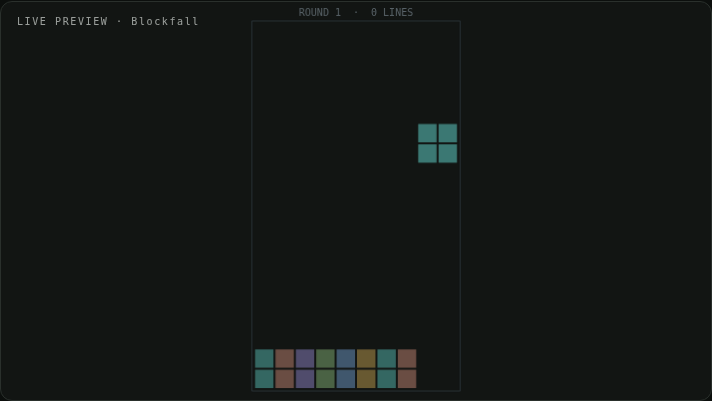
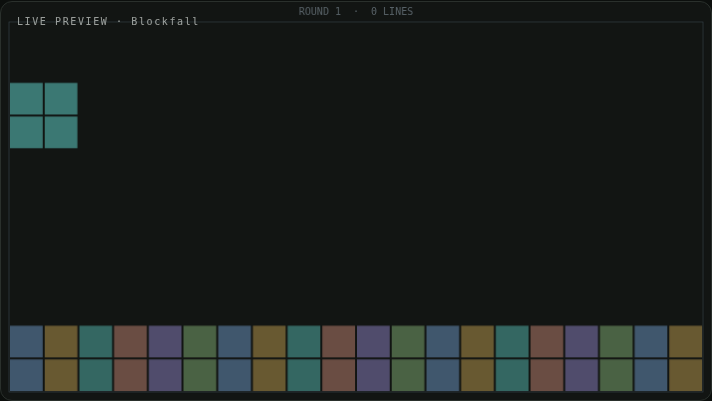
Make game wallpapers fill available space with responsive playfields

diff --git a/src/scenes-games.ts b/src/scenes-games.ts
@@ -1,6 +1,7 @@
 import { AmbientScene } from "./scene"
 import { BlockfallGame } from "./blockfall"
 import { MazeGame } from "./maze"
+import { adaptiveGrid, playfield } from "./game-layout"
 
 const palette = {
   dark: ["#65d8d0", "#e69b86", "#a699e7", "#9acc87", "#82b2e9", "#dfb65b", "#d483ad"],
@@ -8,19 +9,26 @@ const palette = {
 }
 
 export class BlockfallScene extends AmbientScene {
-  private game = new BlockfallGame()
+  private game: BlockfallGame | undefined
+  protected layout() {
+    if (!this.width || !this.height) return
+    const { columns, rows } = adaptiveGrid(this.width, this.height, 220)
+    if (!this.game) this.game = new BlockfallGame(columns, rows)
+    else this.game.resize(columns, rows)
+  }
   protected paint(ctx: CanvasRenderingContext2D, delta: number) {
-    const game = this.game; game.advance(delta)
-    const cell = Math.max(0.5, Math.min(this.width * 0.6 / game.columns, (this.height - 32) / game.rows, 28))
-    const x = (this.width - cell * game.columns) / 2, y = (this.height - cell * game.rows) / 2 + 5
+    const game = this.game!; game.advance(delta)
+    const field = playfield(this.width, this.height), { x, y } = field
+    const cellX = field.width / game.columns, cellY = field.height / game.rows
+    const gap = Math.min(2, cellX * 0.12, cellY * 0.12)
     const light = this.appearance === "light", colors = palette[this.appearance]
     ctx.globalAlpha = game.stage === "reset" ? Math.max(0, 1 - game.age / 2) : 0.8
     ctx.strokeStyle = light ? "#7892a7" : "#647c91"; ctx.lineWidth = 0.6
-    ctx.strokeRect(x - 2, y - 2, cell * game.columns + 4, cell * game.rows + 4)
+    ctx.strokeRect(x, y, field.width, field.height)
     const block = (column: number, row: number, color: number) => {
       if (row < 0) return
       ctx.fillStyle = colors[(color - 1) % colors.length]
-      ctx.fillRect(x + column * cell + 1, y + row * cell + 1, Math.max(1, cell - 2), Math.max(1, cell - 2))
+      ctx.fillRect(x + column * cellX + gap / 2, y + row * cellY + gap / 2, cellX - gap, cellY - gap)
     }
     for (let row = 0; row < game.rows; row++) for (let column = 0; column < game.columns; column++) {
       if (!game.board[row][column]) continue
@@ -38,27 +46,36 @@ export class BlockfallScene extends AmbientScene {
 }
 
 export class MazeChaseScene extends AmbientScene {
-  private game = new MazeGame()
+  private game: MazeGame | undefined
+  protected layout() {
+    if (!this.width || !this.height) return
+    const { columns, rows } = adaptiveGrid(this.width, this.height, 420, true)
+    if (!this.game) this.game = new MazeGame(columns, rows)
+    else this.game.setNextLayout(columns, rows)
+  }
   protected paint(ctx: CanvasRenderingContext2D, delta: number) {
-    const game = this.game; game.advance(delta)
-    const cell = Math.max(0.5, Math.min((this.width - 30) / game.columns, (this.height - 32) / game.rows, 30))
-    const x = (this.width - cell * game.columns) / 2, y = (this.height - cell * game.rows) / 2 + 5
+    const game = this.game!; game.advance(delta)
+    const field = playfield(this.width, this.height), { x, y } = field
+    const cellX = field.width / game.columns, cellY = field.height / game.rows, cell = Math.min(cellX, cellY)
+    const gap = Math.min(1.6, cell * 0.12)
     const light = this.appearance === "light"
     const fade = game.stage === "playing" ? Math.min(1, 0.65 + game.age) : Math.max(0, 1 - game.age / 2.5)
     ctx.globalAlpha = 0.65 * fade
     ctx.fillStyle = light ? "#789ca6" : "#42677a"
+    ctx.strokeStyle = ctx.fillStyle; ctx.lineWidth = 0.6
+    ctx.strokeRect(x, y, field.width, field.height)
     for (let id = 0; id < game.walls.length; id++) if (game.walls[id]) {
-      ctx.fillRect(x + id % game.columns * cell + 0.8, y + Math.floor(id / game.columns) * cell + 0.8, cell - 1.6, cell - 1.6)
+      ctx.fillRect(x + id % game.columns * cellX + gap / 2, y + Math.floor(id / game.columns) * cellY + gap / 2, cellX - gap, cellY - gap)
     }
     ctx.fillStyle = light ? "#826426" : "#d3bf7c"
     for (const id of game.pellets) {
-      ctx.beginPath(); ctx.arc(x + (id % game.columns + 0.5) * cell, y + (Math.floor(id / game.columns) + 0.5) * cell,
+      ctx.beginPath(); ctx.arc(x + (id % game.columns + 0.5) * cellX, y + (Math.floor(id / game.columns) + 0.5) * cellY,
         cell * (game.powers.has(id) ? 0.18 : 0.07), 0, Math.PI * 2); ctx.fill()
     }
     const position = (from: number, to: number) => {
       const t = game.interpolation
-      return [x + (from % game.columns + (to % game.columns - from % game.columns) * t + 0.5) * cell,
-        y + (Math.floor(from / game.columns) + (Math.floor(to / game.columns) - Math.floor(from / game.columns)) * t + 0.5) * cell]
+      return [x + (from % game.columns + (to % game.columns - from % game.columns) * t + 0.5) * cellX,
+        y + (Math.floor(from / game.columns) + (Math.floor(to / game.columns) - Math.floor(from / game.columns)) * t + 0.5) * cellY]
     }
     const [px, py] = position(game.previousPlayer, game.player)
     ctx.globalAlpha = 0.95 * fade; ctx.fillStyle = light ? "#087b86" : "#6ce0d4"

diff --git a/tests/game-layout.test.ts b/tests/game-layout.test.ts
@@ -1,0 +1,61 @@
+import { expect, it } from "vitest"
+import { adaptiveGrid, playfield } from "../src/game-layout"
+import { createScene } from "../src/scenes"
+import { BlockfallGame } from "../src/blockfall"
+import { MazeGame } from "../src/maze"
+import { drawing } from "./environment"
+
+for (const mode of ["blockfall", "maze-chase"] as const) {
+  it(`${mode} fills wide, tall, compact, and large playfields while preserving round progress`, () => {
+    const scene = createScene(mode)
+    scene.resize(800, 600)
+    for (let i = 0; i < 30; i++) scene.draw(drawing as unknown as CanvasRenderingContext2D, 0.1, 1)
+    const hud = drawing.fillText.mock.lastCall![0]
+    for (const [width, height] of [[1440, 900], [712, 240], [360, 800], [1600, 300], [800, 600]]) {
+      drawing.strokeRect.mockClear()
+      scene.resize(width, height)
+      scene.draw(drawing as unknown as CanvasRenderingContext2D, 0, 1)
+      const [x, y, w, h] = drawing.strokeRect.mock.calls[0]
+      expect(w / width).toBeGreaterThan(0.94)
+      expect(h / height).toBeGreaterThan(0.88)
+      expect(x + w).toBeLessThanOrEqual(width)
+      expect(y + h).toBeLessThanOrEqual(height)
+      expect(drawing.fillText.mock.lastCall![0]).toBe(hud)
+    }
+  })
+}
+
+it("layout work stays bounded and remains valid at tiny positive sizes", () => {
+  for (const [width, height] of [[1, 1], [800, 600], [4000, 400], [400, 4000]]) {
+    const field = playfield(width, height)
+    expect(field.width).toBeGreaterThan(0); expect(field.height).toBeGreaterThan(0)
+    const blocks = adaptiveGrid(width, height, 220)
+    expect(blocks.columns).toBeLessThanOrEqual(36); expect(blocks.rows).toBeLessThanOrEqual(36)
+    const maze = adaptiveGrid(width, height, 420, true)
+    expect(maze.columns % 2).toBe(1); expect(maze.rows % 2).toBe(1)
+    expect(maze.columns * maze.rows).toBeLessThanOrEqual(61 * 41)
+  }
+})
+
+it("Blockfall retains the stack, round counters, and piece age when the board grows", () => {
+  const game = new BlockfallGame()
+  game.advance(0.35)
+  const count = game.board.flat().filter(Boolean).length, age = game.age
+  game.resize(14, 22)
+  expect(game.board.flat().filter(Boolean).length).toBe(count)
+  expect(game.round).toBe(1); expect(game.pieces).toBe(0); expect(game.totalLines).toBe(0)
+  expect(game.age).toBe(age)
+  expect(game.board[21].filter(Boolean).length).toBe(8)
+})
+
+it("Maze Chase keeps its active match intact and adopts the new grid only at the next round", () => {
+  const game = new MazeGame()
+  expect([game.columns, game.rows]).toEqual([23, 15])
+  for (let i = 0; i < 30; i++) game.advance(0.1)
+  const state = { walls: [...game.walls], pellets: [...game.pellets], player: game.player, lives: game.lives }
+  game.setNextLayout(41, 9); game.advance(0)
+  expect({ walls: game.walls, pellets: [...game.pellets], player: game.player, lives: game.lives }).toEqual(state)
+  for (let i = 0; i < 1000 && game.round === 1; i++) game.advance(0.1)
+  expect(game.round).toBeGreaterThan(1)
+  expect([game.columns, game.rows]).toEqual([41, 9])
+})

diff --git a/src/blockfall.ts b/src/blockfall.ts
@@ -19,8 +19,8 @@ function rotations(shape: readonly Cell[]): Cell[][] {
 
 /** Small bounded falling-block simulation. Planning runs once per piece, never per frame. */
 export class BlockfallGame {
-  readonly columns = 10
-  readonly rows = 18
+  columns: number
+  rows: number
   board: number[][] = []
   round = 1
   pieces = 0
@@ -30,7 +30,27 @@ export class BlockfallGame {
   clearing: number[] = []
   piece: { cells: Cell[]; x: number; landing: number; color: number } | undefined
   private seed = 193
-  constructor() { this.reset() }
+  constructor(columns = 10, rows = 18) {
+    this.columns = Math.max(8, Math.min(36, Math.round(columns)))
+    this.rows = Math.max(8, Math.min(36, Math.round(rows)))
+    this.reset()
+  }
+  /** Reflow the existing stack, anchored at the floor; keep round, counters, and piece age. */
+  resize(columns: number, rows: number) {
+    columns = Math.max(8, Math.min(36, Math.round(columns)))
+    rows = Math.max(8, Math.min(36, Math.round(rows)))
+    if (columns === this.columns && rows === this.rows) return
+    const board = Array.from({ length: rows }, () => Array(columns).fill(0))
+    const dx = Math.floor((columns - this.columns) / 2), dy = rows - this.rows
+    for (let y = 0; y < this.rows; y++) for (let x = 0; x < this.columns; x++) {
+      if (y + dy >= 0 && y + dy < rows && x + dx >= 0 && x + dx < columns) board[y + dy][x + dx] = this.board[y][x]
+    }
+    const age = this.age, kind = (this.piece?.color ?? 1) - 1
+    this.clearing = this.clearing.map(y => y + dy).filter(y => y >= 0 && y < rows)
+    this.columns = columns; this.rows = rows; this.board = board
+    if (this.stage === "fall") { this.spawn(kind); this.age = Math.min(age, this.duration) }
+    else this.piece = undefined
+  }
   private random() { this.seed = (Math.imul(this.seed, 1664525) + 1013904223) >>> 0; return this.seed / 4294967296 }
   private reset() {
     this.board = Array.from({ length: this.rows }, () => Array(this.columns).fill(0))

diff --git a/src/maze.ts b/src/maze.ts
@@ -1,7 +1,7 @@
 /** Original generated maze and autonomous match; no borrowed maps, characters, or assets. */
 export class MazeGame {
-  readonly columns = 23
-  readonly rows = 15
+  columns: number
+  rows: number
   walls: boolean[] = []
   pellets = new Set<number>()
   powers = new Set<number>()
@@ -23,7 +23,14 @@ export class MazeGame {
   private seed = 173
   private home = 0
   private starts: number[] = []
-  constructor() { this.reset() }
+  private nextLayout: { columns: number; rows: number } | undefined
+  constructor(columns = 23, rows = 15) {
+    this.columns = Math.max(11, Math.min(61, Math.floor(columns / 2) * 2 + 1))
+    this.rows = Math.max(7, Math.min(41, Math.floor(rows / 2) * 2 + 1))
+    this.reset()
+  }
+  /** Keep the active maze/positions intact; a fresh round adopts the latest aspect ratio. */
+  setNextLayout(columns: number, rows: number) { this.nextLayout = { columns, rows } }
   private random() { this.seed = (Math.imul(this.seed, 1664525) + 1013904223) >>> 0; return this.seed / 4294967296 }
   neighbors(tile: number) {
     const x = tile % this.columns, y = Math.floor(tile / this.columns)
@@ -32,6 +39,11 @@ export class MazeGame {
       .map(([a, b]) => b * this.columns + a).filter(id => !this.walls[id])
   }
   private reset() {
+    if (this.nextLayout) {
+      this.columns = Math.max(11, Math.min(61, Math.floor(this.nextLayout.columns / 2) * 2 + 1))
+      this.rows = Math.max(7, Math.min(41, Math.floor(this.nextLayout.rows / 2) * 2 + 1))
+      this.nextLayout = undefined
+    }
     this.walls = Array(this.columns * this.rows).fill(true)
     const start = this.columns + 1, stack = [start]
     this.walls[start] = false

diff --git a/src/game-layout.ts b/src/game-layout.ts
@@ -1,0 +1,17 @@
+/** Full-area playfields with a small edge inset and a single compact HUD row. */
+export function playfield(width: number, height: number) {
+  const x = Math.min(8, width * 0.02), y = Math.min(20, height * 0.08)
+  return { x, y, width: Math.max(0.001, width - x * 2), height: Math.max(0.001, height - y - Math.min(8, height * 0.02)) }
+}
+
+/** Choose near-square cells for the available aspect ratio; simulation work stays bounded. */
+export function adaptiveGrid(width: number, height: number, cells: number, maze = false) {
+  const field = playfield(width, height)
+  const size = Math.sqrt(field.width * field.height / cells)
+  const bound = (value: number, min: number, max: number) => Math.max(min, Math.min(max, Math.round(value)))
+  if (maze) return {
+    columns: bound(field.width / size / 2, 5, 30) * 2 + 1,
+    rows: bound(field.height / size / 2, 3, 20) * 2 + 1,
+  }
+  return { columns: bound(field.width / size, 8, 36), rows: bound(field.height / size, 8, 36) }
+}

diff --git a/README.md b/README.md
@@ -52,6 +52,10 @@ These are original decorative simulations, not interactive games or branded repr
 clicks, or conversation content, and have no audio. Pausing, reduced motion, or hiding the conversation freezes the game
 clock too—there is no invisible background match progressing while you are away. Resizing does not reset a round.
 
+Both games fill the conversation's available width and height, with only a small edge inset and compact score row—no
+fixed-size centered mini-board. Blockfall adapts its grid and reflows its floor-anchored stack as the room changes.
+Maze Chase scales the current match immediately, then generates a grid suited to the new aspect ratio at the next round.
+
 ## Features
 
 - Built-in green digital rain, enabled by default at 55% dimming with smooth movement between cells.
@@ -162,7 +166,7 @@ were tested with the native v2.2.2 Linux CLI using isolated config/data/cache/st
 browser tests below, not a macOS Desktop test.
 
 To deliberately pin a release for reproducibility, new installations can use
-`opencode plugin add 'github:dluc/opencode-conversation-wallpaper#v0.3.0'`. To change an existing pin, use the same remove/add
+`opencode plugin add 'github:dluc/opencode-conversation-wallpaper#v0.3.1'`. To change an existing pin, use the same remove/add
 procedure with the exact old and new targets—not `plugin update` and not a second duplicate entry.
 
 For local development, configure an absolute path to a clone of this repository instead of the Git package.
@@ -249,7 +253,9 @@ to ignored `test-results/`.
 
 Simulation tests run multiple complete game rounds, check connected mazes, legal actor positions, row clearing,
 board completion, lost lives, and automatic restarts. Browser checks also exercise game/non-game preview transitions,
-tiny positive viewport sizes, and switching back to uploaded images in the larger gallery.
+tiny positive viewport sizes, and switching back to uploaded images in the larger gallery. Responsive-game tests inspect
+actual Canvas playfield calls at landscape, portrait, and tiny sizes, checking full-area coverage and unchanged round
+counters while a paused match is resized.
 
 These are not a live OpenCode Desktop installation test. Verify the plugin in your actual app version before
 relying on compatibility. No global OpenCode configuration is modified by the tests or build.

diff --git a/AGENTS.md b/AGENTS.md
@@ -9,6 +9,7 @@ Independent Git repository; parent is a workspace, not a monorepo.
 - Wallpaper never reads conversation text or changes message opacity, theme tokens, selection, scrolling, or pointer handling.
 - Eleven built-ins: digital rain, cloud drift, fireflies, starfield, aurora, meteor shower, night sky, bouncing balls, blockfall, disco lights, maze chase. Each owns its motion; do not expose direction controls. Gallery thumbnails are static. Only built-ins have speed controls; uploads display as-is without added movement or effects.
 - Game wallpapers are autonomous, original simulations with no borrowed names, characters, maps, assets, audio, or input capture. Model time advances only with visible animation frames; rounds must finish and restart, simulation state is bounded and survives resizing. Disco lights sweep smoothly without strobing.
+- Game boards fill the available width and height with only compact edge/HUD insets. Do not restore fixed-size centered boards or pixel-size caps. Use bounded adaptive grids and preserve the current round/counters during layout changes.
 - Read the app appearance from the GUI SDK, not OS color-scheme queries. Clouds, fireflies, and stars use theme-aware palettes; preserve their original dark colors and repaint paused effects/thumbnails on theme changes. Never recolor uploads.
 - Local raster images only; reject SVG, remote URLs, filesystem URLs, unsupported MIME types, and files over 8 MB.
 - Respect reduced motion by default; only the explicit Follow system Reduce motion opt-out may override it. Manual pause always wins. Pause hidden timelines. Dispose observers, frames, listeners, and image sources on unload.
